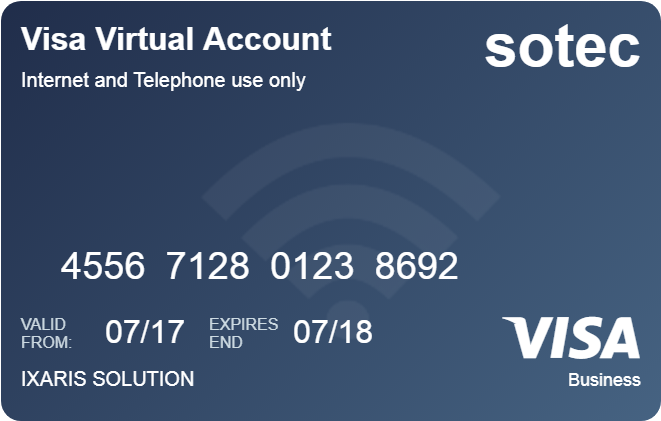
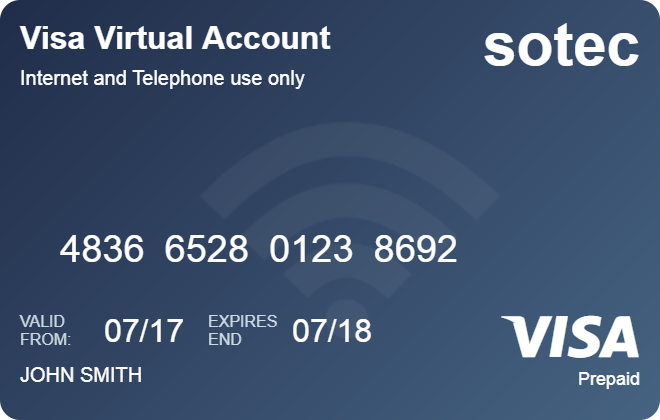
card type from business to prepaid

diff --git a/src/page/admin/Cards.js b/src/page/admin/Cards.js
@@ -116,7 +116,7 @@ const DebitCard = ({cardDetail}) => {
             </div>
             <div className='cardtype'>
               <div className='logo'><i className={`pf ${cardBrandClass[cardDetail.cardBrand]}`} /></div>
-              <div className='type'>Business</div>
+              <div className='type'>Prepaid</div>
             </div>
           </div>
         </div>
@@ -135,7 +135,7 @@ const DebitCard = ({cardDetail}) => {
               This card is issued by IDT Financial Services Limited (IDTFS) pursuant to a license from Visa Europe and remains the property of IDT Financial Services Ltd.
             </div>
             <div className='type'>
-              Business
+              Prepaid
             </div>
           </div>
         </div>
